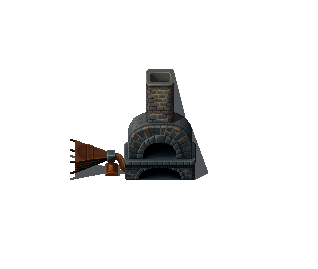
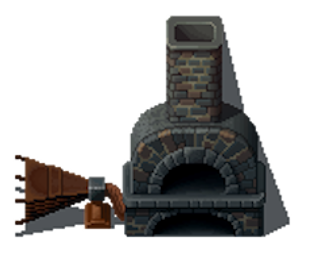
modification de l'image des forges et correction d'un bug dans l'inventaire des forges

diff --git a/Vue/VueForge.java b/Vue/VueForge.java
@@ -9,13 +9,14 @@ import java.lang.reflect.Array;
 public class VueForge implements Affichable{
 
     Image[] img = new Image[3];
+    int appel = 0;
 
     public VueForge()
     {
         for (int i = 0; i < 3 ; i++)
         {
             try {
-                img[i] = ImageIO.read(new File("Images/furnace"+ (i + 1) +".png"));
+                img[i] = ImageIO.read(new File("Images/furnace"+ ((i%2) + 1) +".png"));
             } catch (IOException E) {
                 E.printStackTrace();
             }
@@ -24,6 +25,7 @@ public class VueForge implements Affichable{
 
     @Override
     public void draw(Graphics g, Affichage a) {
-        g.drawImage(img[1],10, 20, a.fitX(80), a.fitY(80),null);
+        g.drawImage(img[appel],10, 20, a.fitX(80), a.fitY(80),null);
+        appel = (appel + 1)%3;
     }
 }
